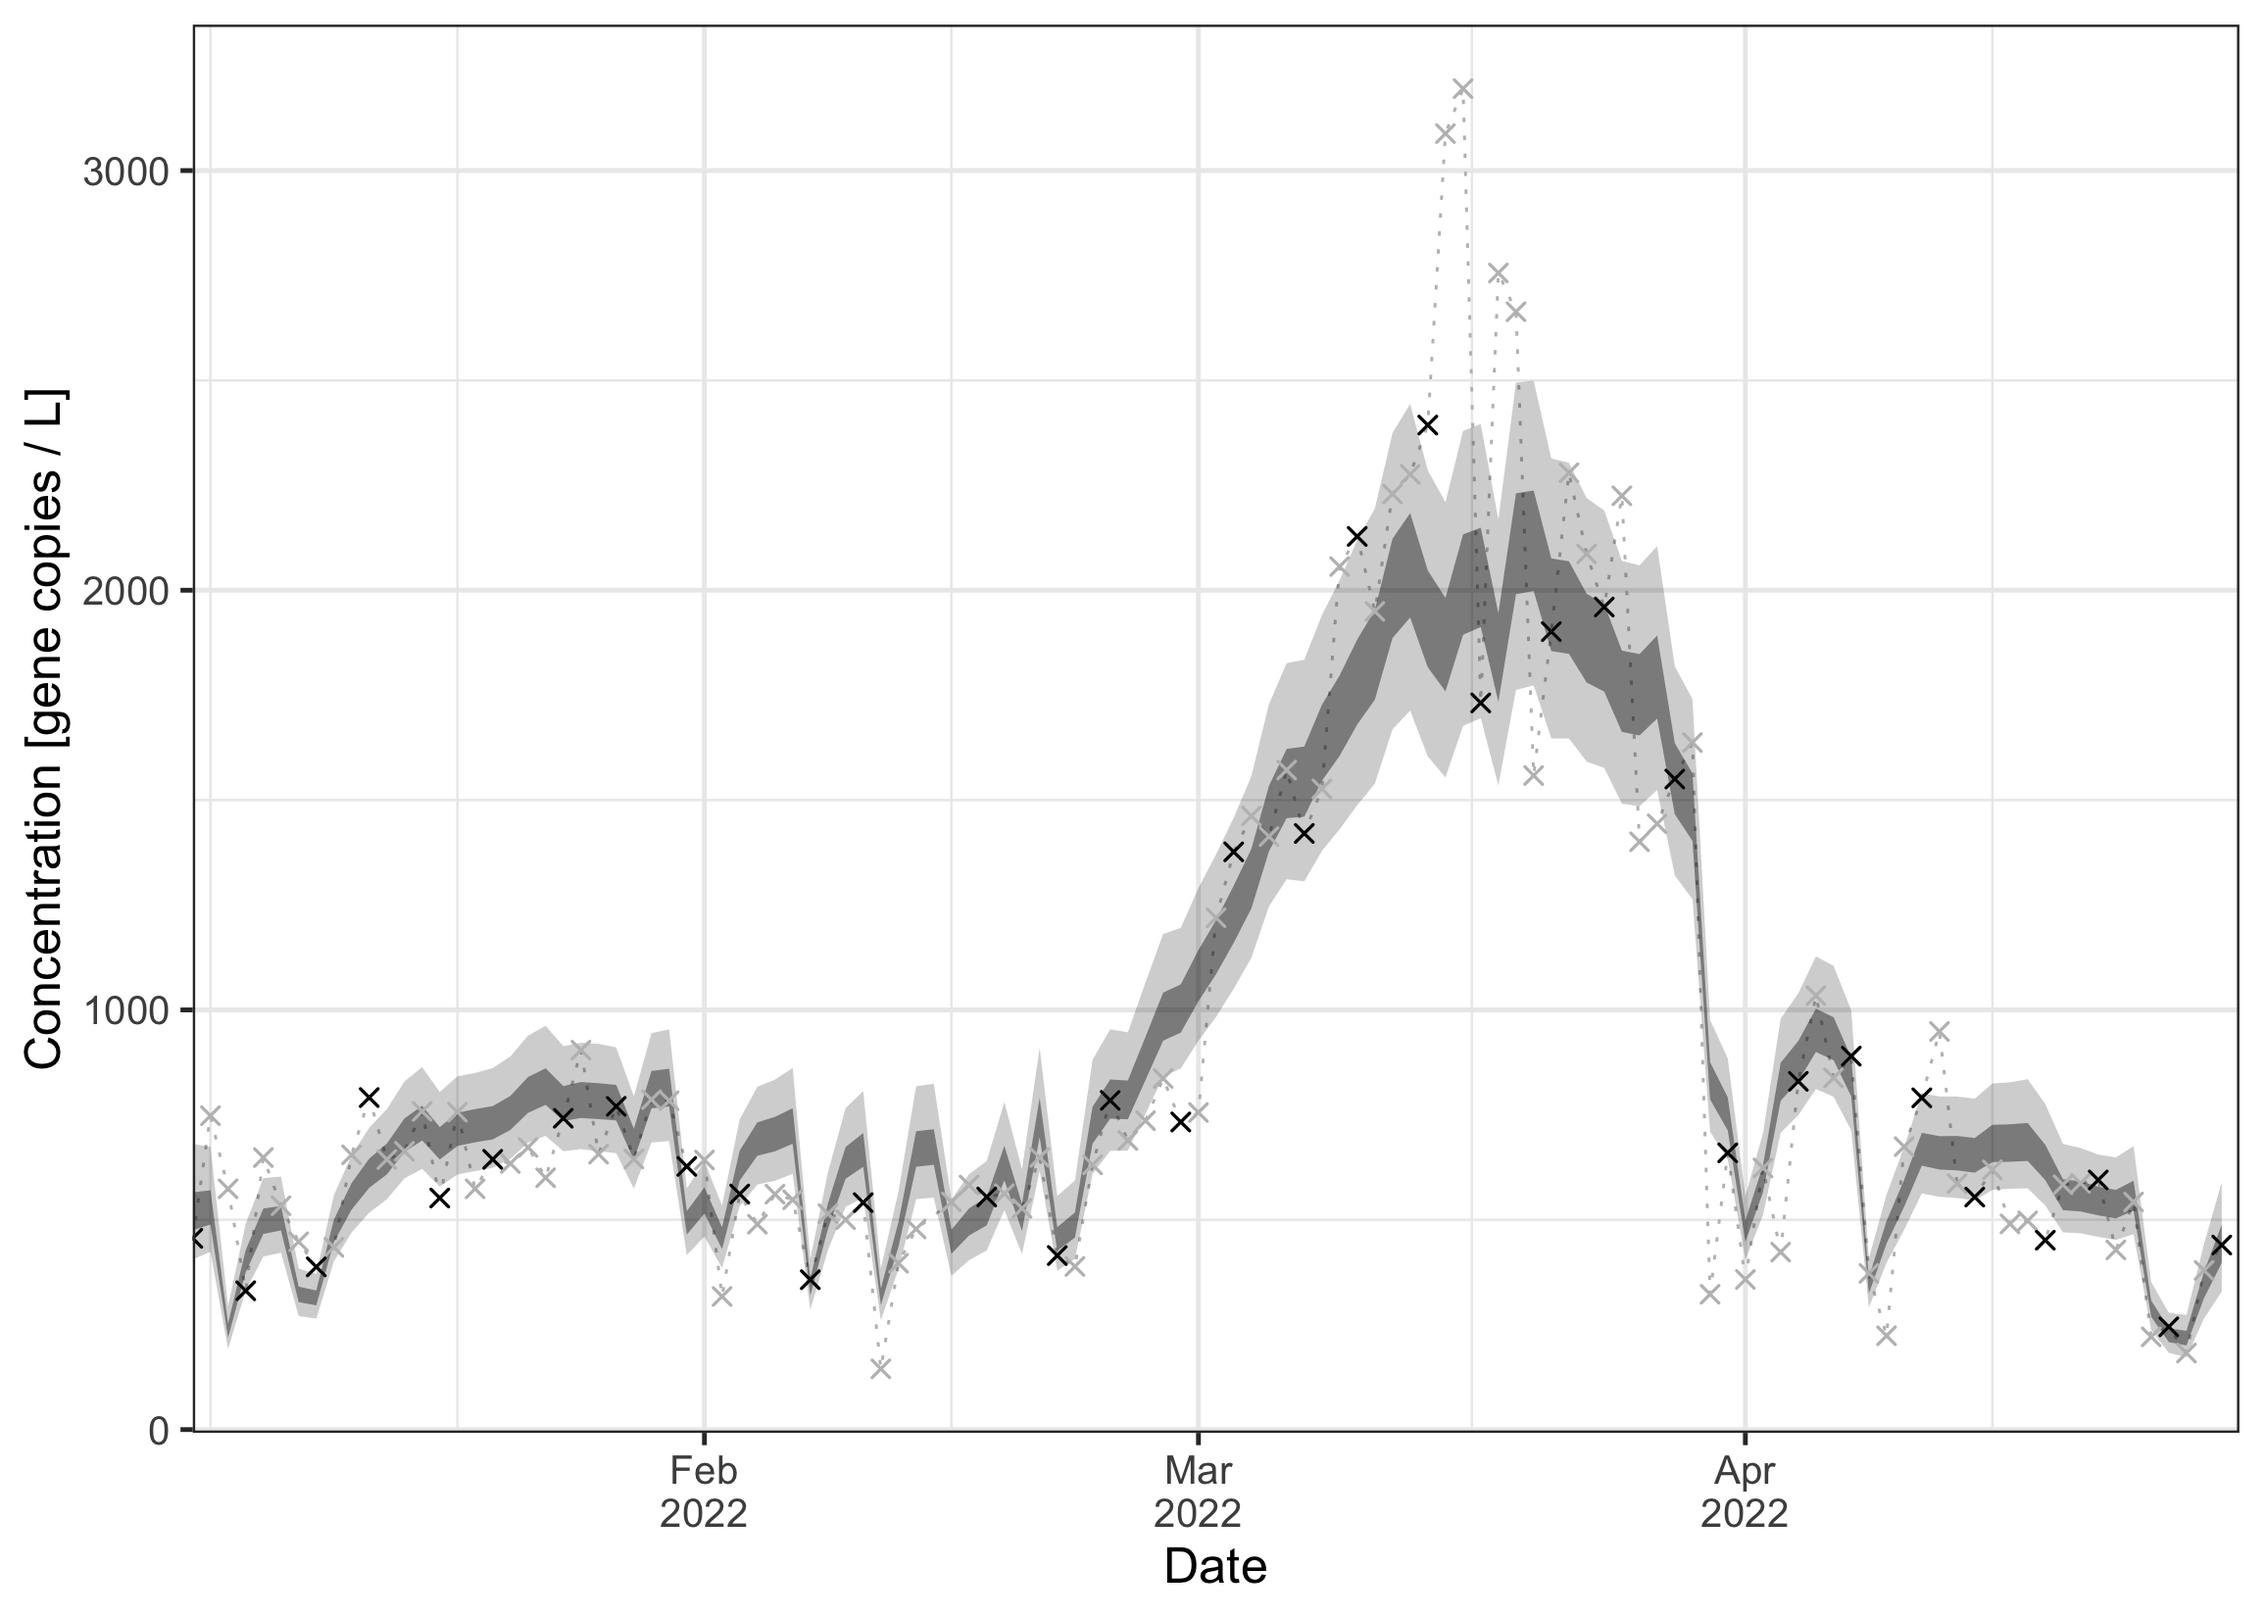
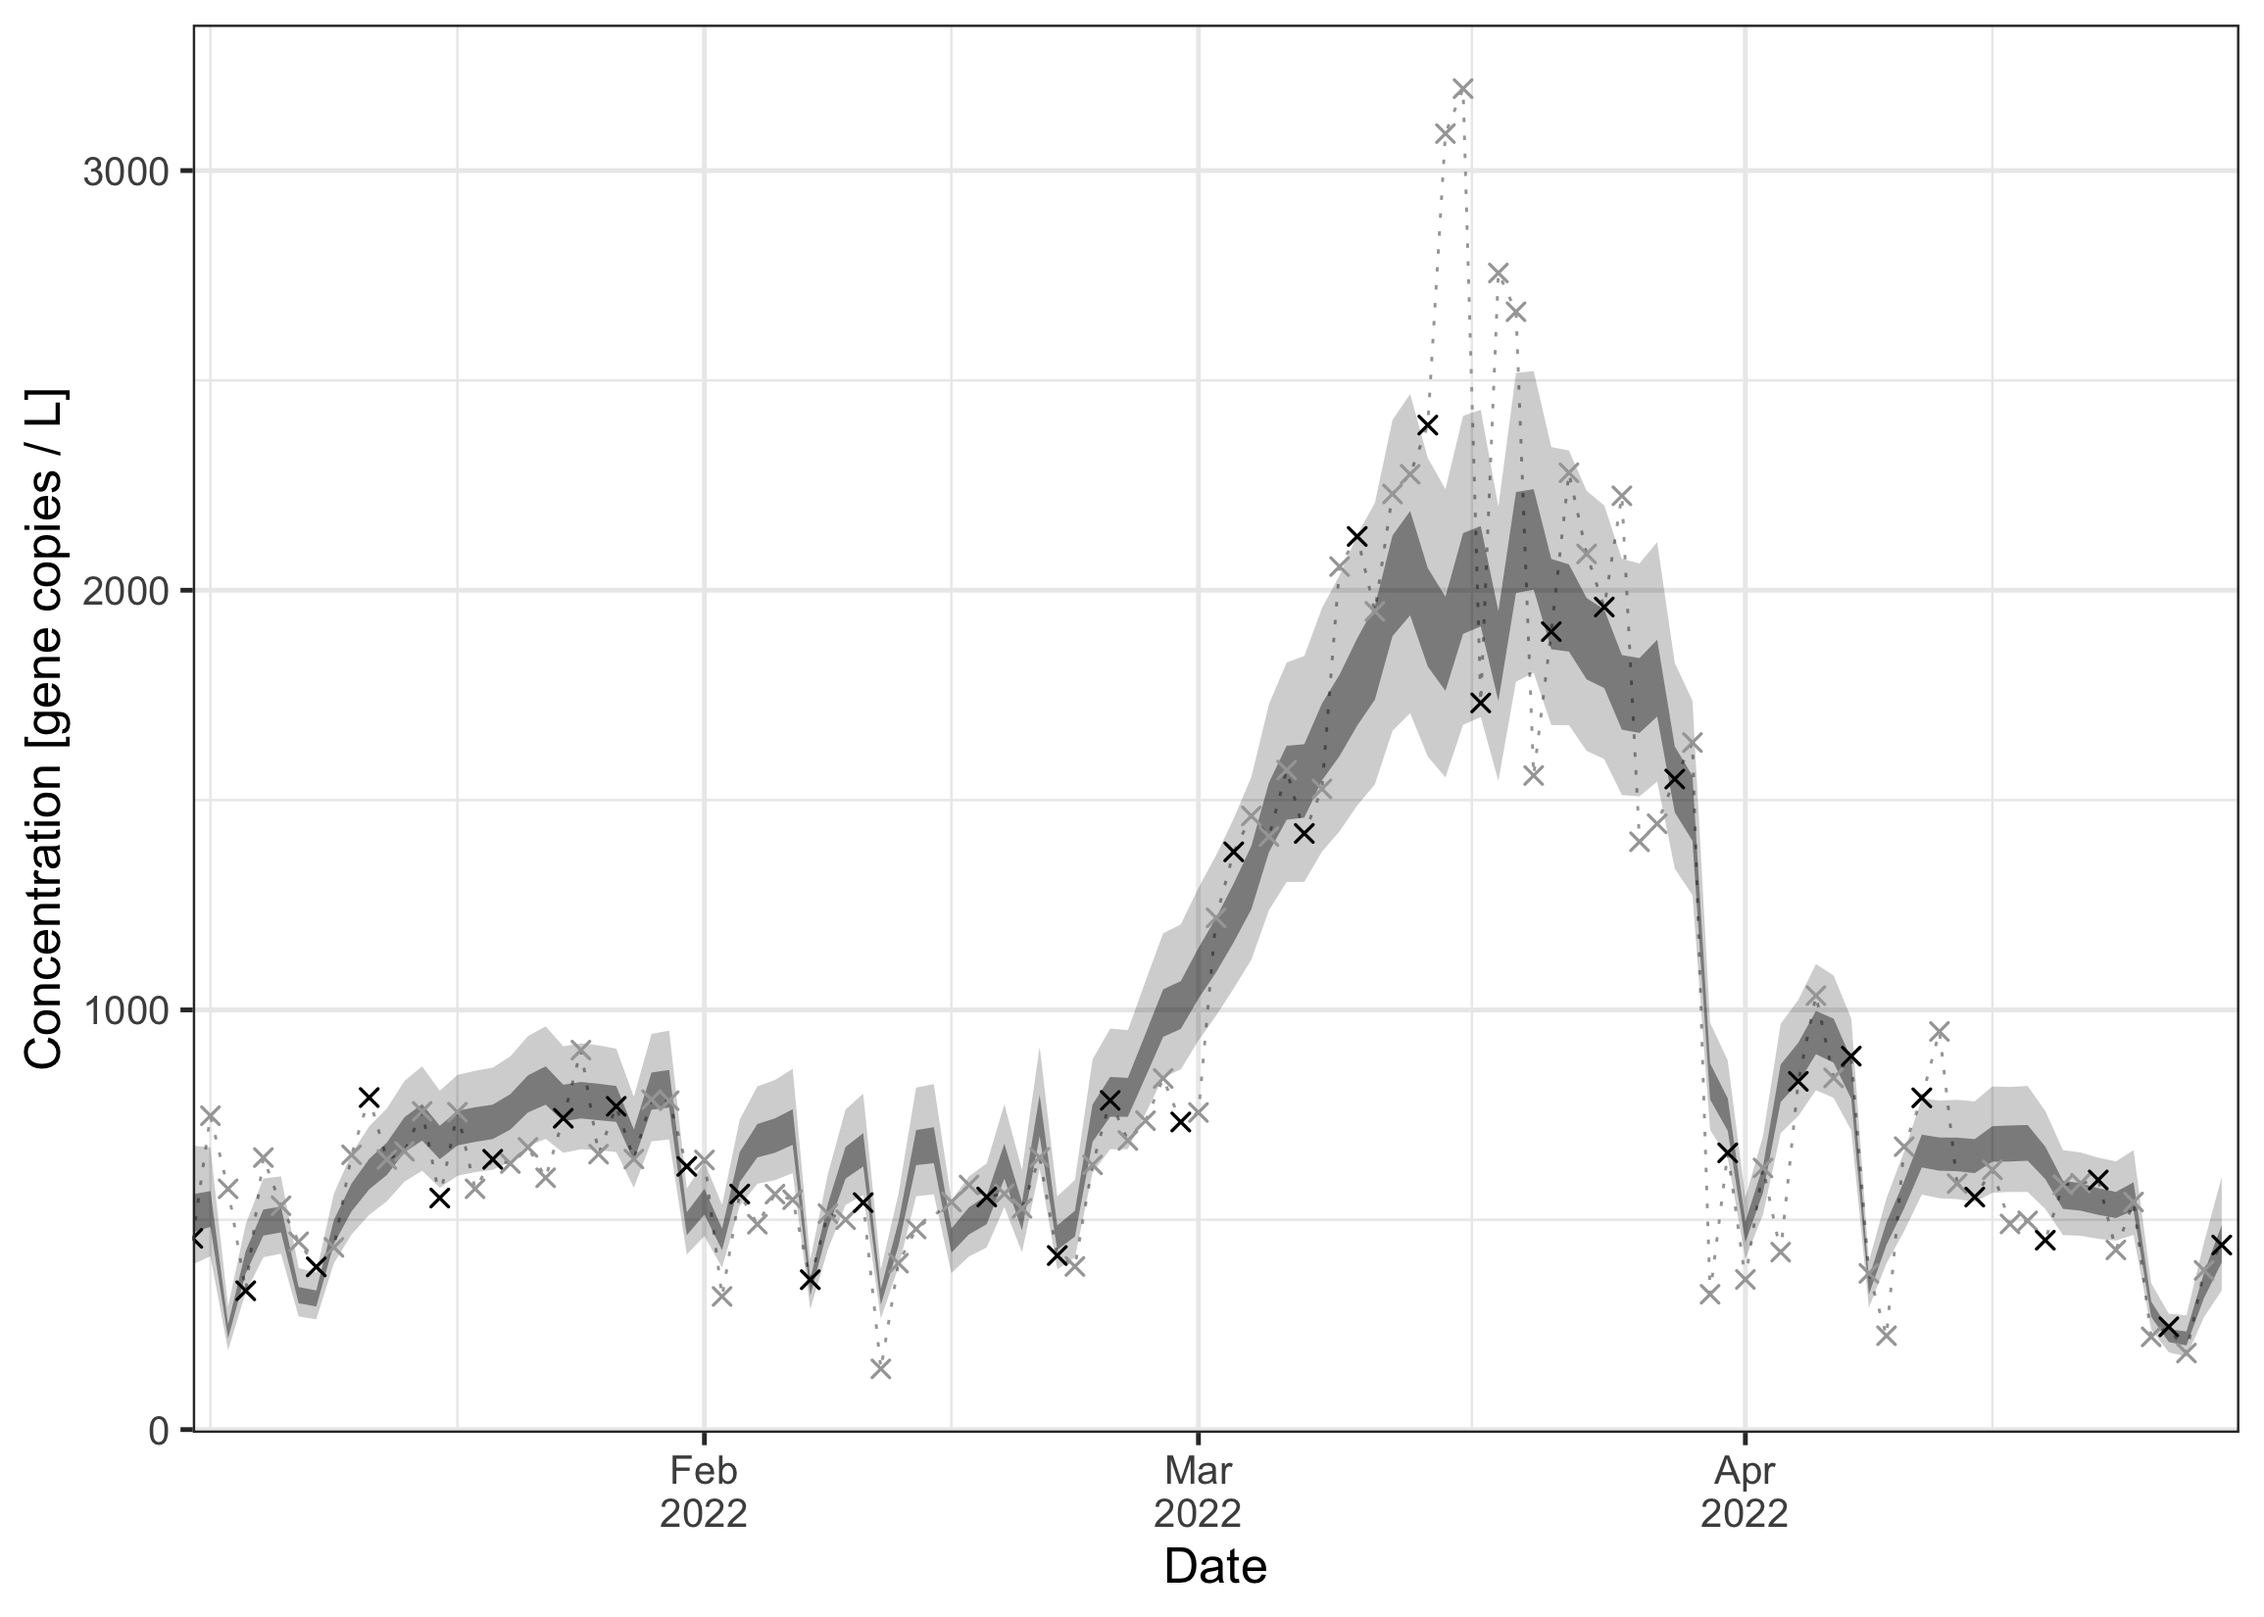
Update README

diff --git a/README.md b/README.md
@@ -109,7 +109,7 @@ str(data_zurich)
 #>   ..- attr(*, ".internal.selfref")=<externalptr> 
 #>  $ cases       :Classes 'data.table' and 'data.frame':   120 obs. of  2 variables:
 #>   ..$ date : Date[1:120], format: "2022-01-01" "2022-01-02" ...
-#>   ..$ cases: num [1:120] NA NA 323 367 348 ...
+#>   ..$ cases: num [1:120] NA NA 1520 1727 1639 ...
 #>   ..- attr(*, ".internal.selfref")=<externalptr> 
 #>  $ units       :List of 2
 #>   ..$ concentration: chr "gc/mL"
@@ -177,18 +177,18 @@ concentration (mL here in both cases).
 
 ``` r
 data_zurich$flows
-#>            date        flow
-#>   1: 2022-01-01 3.41163e+11
-#>   2: 2022-01-02 3.41163e+11
-#>   3: 2022-01-03 1.58972e+11
-#>   4: 2022-01-04 1.60849e+11
-#>   5: 2022-01-05 3.72301e+11
-#>  ---                       
-#> 116: 2022-04-26 3.30659e+11
-#> 117: 2022-04-27 2.06046e+11
-#> 118: 2022-04-28 1.58373e+11
-#> 119: 2022-04-29 1.52156e+11
-#> 120: 2022-04-30 2.08685e+11
+#>            date         flow
+#>   1: 2022-01-01 341163082483
+#>   2: 2022-01-02 341163082483
+#>   3: 2022-01-03 158972454250
+#>   4: 2022-01-04 160849294683
+#>   5: 2022-01-05 372301227483
+#>  ---                        
+#> 116: 2022-04-26 330658518200
+#> 117: 2022-04-27 206045734750
+#> 118: 2022-04-28 158372697017
+#> 119: 2022-04-29 152155673150
+#> 120: 2022-04-30 208684746067
 ```
 
 Note: In contrast to the concentration measurements, the flow data must
@@ -265,13 +265,13 @@ suggest_load_per_case(
   data_zurich$flows,
   ascertainment_prop = 1
 )
-#> [1] 5.9e+11
+#> [1] 1.3e+11
 ```
 
-Hence we will assume `6e+11 gc/person` as the average shedding load.
+Hence we will assume `1e+11 gc/person` as the average shedding load.
 
 ``` r
-load_per_case <- 6e+11
+load_per_case <- 1e+11
 ```
 
 #### Combining all assumptions
@@ -307,7 +307,19 @@ options(mc.cores = 4) # allow stan to use 4 cores, i.e. one for each chain
 ww_result <- EpiSewer(
   data = ww_data,
   assumptions = ww_assumptions,
-  fit_opts = set_fit_opts(sampler = sampler_stan_mcmc(iter_warmup = 1000, iter_sampling = 1000, chains = 4))
+  measurements = model_measurements(LOD = LOD_assume(limit = 2),
+    noise = noise_estimate(
+     type = "constant",
+     #ddPCR_droplets_fixed = F,
+     #ddPCR_scaling_fixed = F
+     # ddPCR_prior_droplets_mu = 22000,
+     # ddPCR_prior_droplets_sigma = 1000,
+     # ddPCR_prior_scaling_mu = 1.73e-5,
+     # ddPCR_prior_scaling_sigma = 0.05e-5
+     )),
+  fit_opts = set_fit_opts(sampler = sampler_stan_mcmc(iter_warmup = 1000, iter_sampling = 1000, chains = 4)),
+  infections = model_infections(infection_noise = infection_noise_estimate(overdispersion = TRUE, overdispersion_prior_mu = 0.1, overdispersion_prior_sigma = 0.001)),
+  run_fit = T
 )
 ```
 
@@ -337,9 +349,8 @@ decent fit on these missing days.
 plot_concentration(ww_result, measurements = data_zurich$measurements)
 ```
 
-<img src="man/figures/README-concentration-1.png" width="100%" />
-
-By default, the function `plot_concentration()` includes the modeled
+<img src="man/figures/README-concentration-1.png" width="100%" /> By
+default, the function `plot_concentration()` includes the modeled
 measurement noise in the predicted concentrations. If you only want to
 see the predicted expected concentration without noise, set
 `include_noise = FALSE`.
@@ -389,8 +400,8 @@ plot_load(ww_result)
 <img src="man/figures/README-load-1.png" width="100%" /> Next, we plot
 the estimated number of infections over time. The time series follows a
 very similar trend as the load. Using our assumed shedding load per case
-of 6e11, we can see that the peak load (roughly 3.3e14) corresponds to
-3.3e14/6e11=550 infections. The peak in infections shown below seems to
+of 1e11, we can see that the peak load (roughly 3.3e14) corresponds to
+3.3e14/1e11=3300 infections. The peak in infections shown below seems to
 be a bit higher, and it is also a bit earlier. The reason for this
 difference is that infected individuals only begin shedding after their
 infection and then shed over a longer period of time (as defined by the
@@ -475,17 +486,17 @@ number.
 ``` r
 ww_result$summary$R
 #>            date      mean    median lower_0.95 lower_0.5 upper_0.5 upper_0.95
-#>   1: 2021-12-06 1.0426791 1.0425000  0.7180512 0.9429652  1.147620   1.357138
-#>   2: 2021-12-07 1.0432292 1.0431400  0.7351968 0.9481753  1.142900   1.345717
-#>   3: 2021-12-08 1.0440299 1.0446050  0.7540923 0.9512257  1.137960   1.334841
-#>   4: 2021-12-09 1.0450871 1.0457950  0.7651638 0.9558753  1.135803   1.324241
-#>   5: 2021-12-10 1.0464089 1.0472550  0.7759100 0.9602262  1.133820   1.322272
+#>   1: 2021-12-06 1.0560143 1.0590350  0.7253699 0.9506840  1.163542   1.379811
+#>   2: 2021-12-07 1.0570305 1.0587950  0.7400326 0.9566150  1.160950   1.370855
+#>   3: 2021-12-08 1.0581808 1.0585850  0.7553685 0.9603895  1.158545   1.360446
+#>   4: 2021-12-09 1.0594982 1.0574000  0.7689660 0.9648040  1.154475   1.348745
+#>   5: 2021-12-10 1.0610178 1.0591100  0.7780022 0.9701918  1.153317   1.339065
 #>  ---                                                                         
-#> 140: 2022-04-24 0.9868777 0.9820210  0.7517854 0.9060957  1.064933   1.250580
-#> 141: 2022-04-25 0.9863933 0.9807570  0.7308977 0.9010367  1.068500   1.275355
-#> 142: 2022-04-26 0.9861018 0.9812930  0.7192404 0.8936360  1.073967   1.292529
-#> 143: 2022-04-27 0.9862395 0.9795155  0.6991881 0.8894863  1.080833   1.316732
-#> 144: 2022-04-28 0.9867506 0.9798795  0.6661445 0.8838173  1.085965   1.338514
+#> 140: 2022-04-24 0.9919385 0.9865400  0.7636396 0.9081212  1.069568   1.246623
+#> 141: 2022-04-25 0.9911287 0.9862050  0.7441879 0.9024098  1.073062   1.272051
+#> 142: 2022-04-26 0.9910492 0.9852155  0.7220755 0.8976237  1.076300   1.288621
+#> 143: 2022-04-27 0.9914202 0.9830745  0.7027853 0.8961687  1.079720   1.311972
+#> 144: 2022-04-28 0.9919365 0.9799230  0.6788358 0.8885547  1.090078   1.345702
 #>      seeding
 #>   1:    TRUE
 #>   2:    TRUE
@@ -541,7 +552,7 @@ ww_result$fitted$diagnostic_summary()
 #> [1] 0 0 0 0
 #> 
 #> $ebfmi
-#> [1] 0.6082754 0.7733432 0.7691555 0.8166714
+#> [1] 0.8369946 0.7609754 0.7535453 0.6629081
 ```
 
 Finally, the `checksums` attribute gives us several checksums that
@@ -553,14 +564,14 @@ is not NULL), then the results should also be identical.
 ``` r
 ww_result$checksums
 #> $model
-#> [1] "b79c53ef87bac0fd32140d22029a1843"
+#> [1] "90d21898f6fe5509deee6b67007a0708"
 #> 
 #> $input
-#> [1] "a6f000bef282725787009d376aac763c"
+#> [1] "de2fb978ff958d5546bbb2beb3ff84a0"
 #> 
 #> $fit_opts
 #> [1] "0099b7f17b4a7762f7f9c26d9c606976"
 #> 
 #> $init
-#> [1] "10153170578738e71079bbe6fadb45e3"
+#> [1] "4a36b1dcccaf20bd3959eaa8bae24452"
 ```
